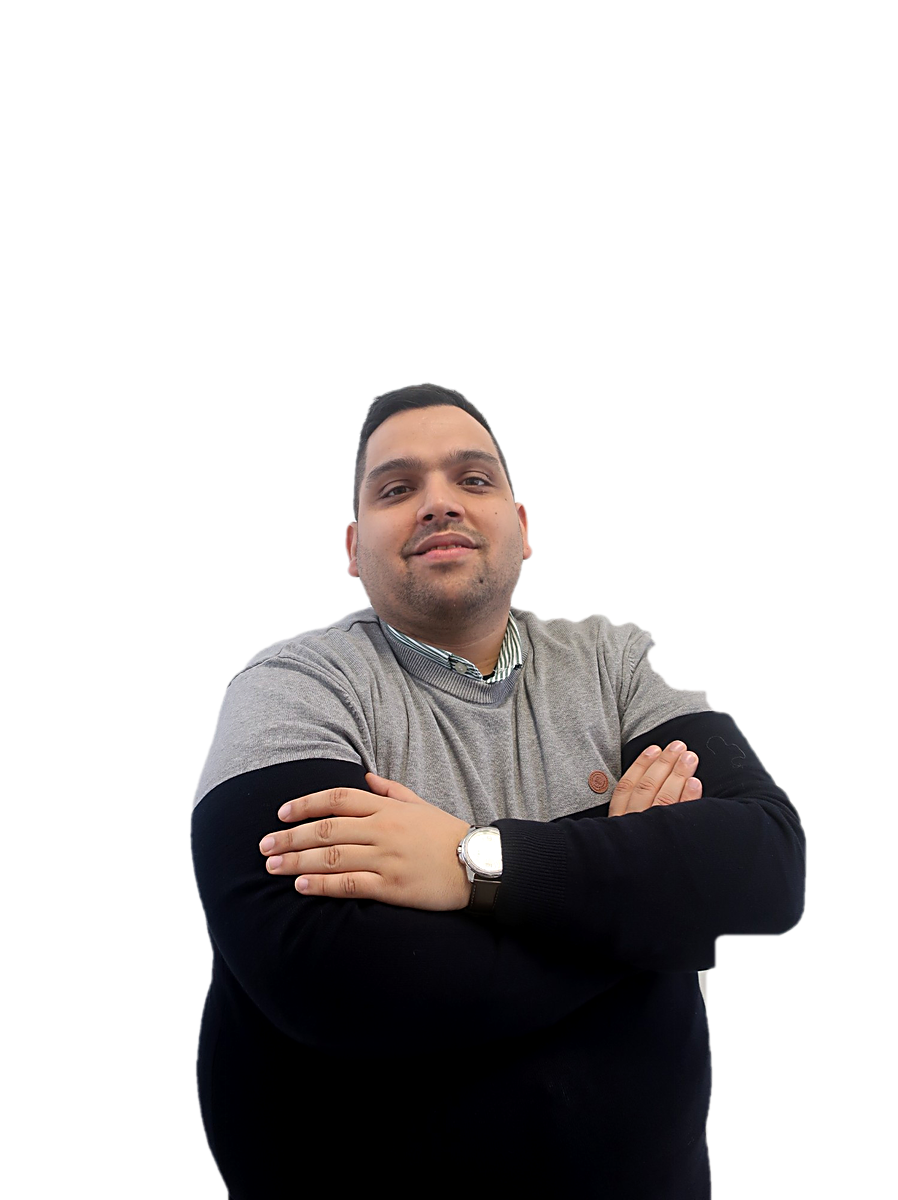
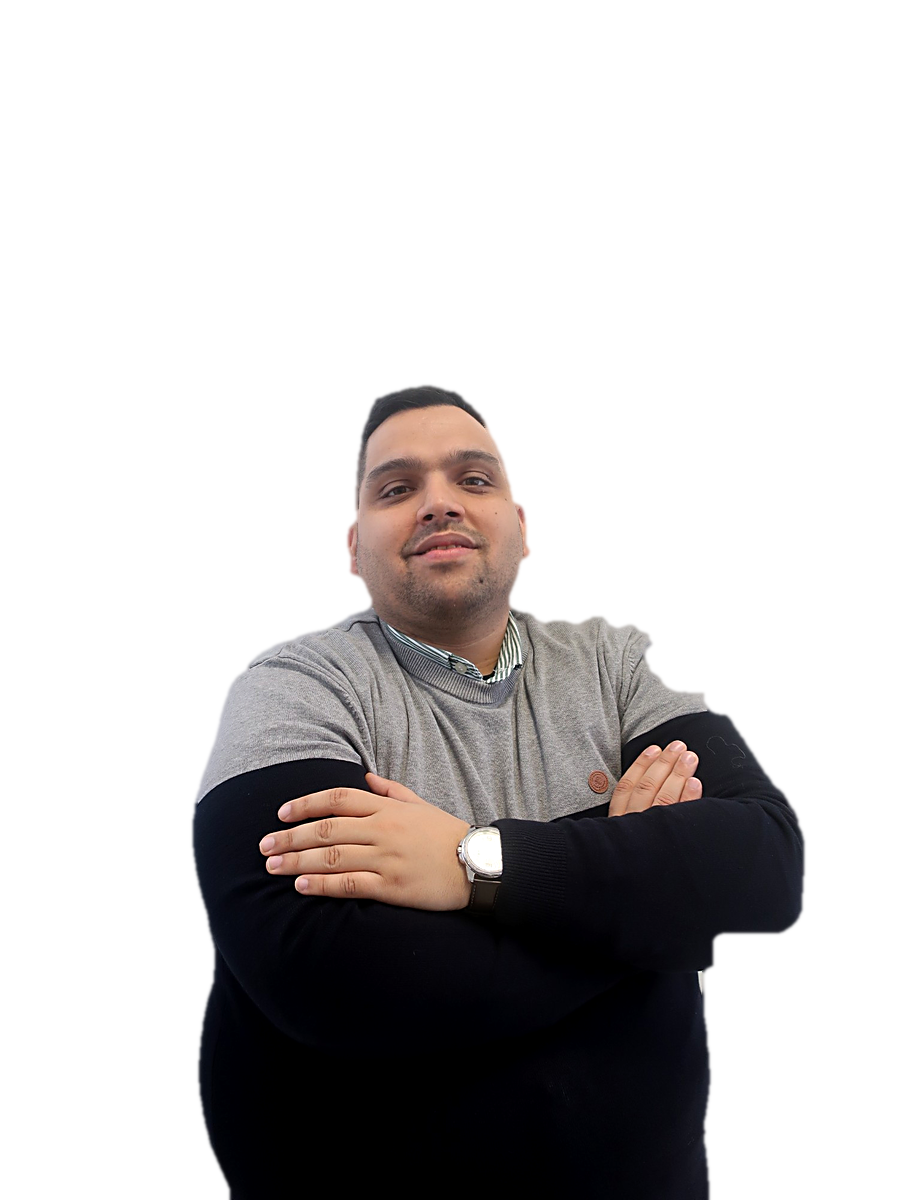
Aniversário do João (dividido): lado direito escuro com a rede vermelha
O papel dá lugar a um fundo quase preto com a rede vermelha original
da marca; logótipo a branco; contorno do recorte limpo da auréola
clara da parede.

Claude-Session: https://claude.ai/code/session_0173GtUhSHhHFQaxLRUGv3dG

diff --git a/aniversario-joao/post-dividido/carrossel.html b/aniversario-joao/post-dividido/carrossel.html
@@ -14,9 +14,9 @@ body{background:#17181a;font-family:var(--du-font-sans);padding:56px}
 </head>
 <body>
 <section class="s" id="s1">
-  <img class="abs" src="net-papel.svg" alt="" style="left:560px;top:0;width:520px;height:1350px;object-fit:cover;object-position:right top">
+  <img class="abs" src="net-escuro.svg" alt="" style="left:560px;top:0;width:520px;height:1350px;object-fit:cover;object-position:right top">
   <div class="abs" style="left:0;top:0;width:560px;height:1350px;background:var(--du-black)"></div>
-  <img class="abs" src="digiup-black.svg" alt="digiUP" style="right:76px;top:128px;width:130px">
+  <img class="abs" src="digiup-white.svg" alt="digiUP" style="right:76px;top:128px;width:130px">
   <img class="abs" src="joao-cutout.png" alt="João Nascimento, de braços cruzados e a sorrir, com camisola cinzenta e azul-escura." style="left:270px;top:72px;width:958px">
 
   <div class="abs" style="left:76px;top:150px;width:460px;color:var(--du-white)">

diff --git a/aniversario-joao/README.md b/aniversario-joao/README.md
@@ -8,4 +8,4 @@ Para outra pessoa da equipa: trocar `joao-pessoa.png` e `joao-glow.png` (recorte
 - `post-v2-preto/` — a mesma versão com a moldura a preto (#0A0305).
 - `post-v2-cor/` — a versão de moldura preta com a fotografia a cores.
 - `post-v2-cor-bracos/` — versão a cores com a foto de braços cruzados (cortados pela caixa de texto), sem tratamento de imagem.
-- `post-dividido/` — layout dividido ao meio: texto no lado preto, o João recortado (a cores, braços cruzados) sobre papel, a atravessar a divisão.
+- `post-dividido/` — layout dividido ao meio: texto no lado preto, o João recortado (a cores, braços cruzados) sobre fundo escuro com a rede vermelha da marca, a atravessar a divisão.
